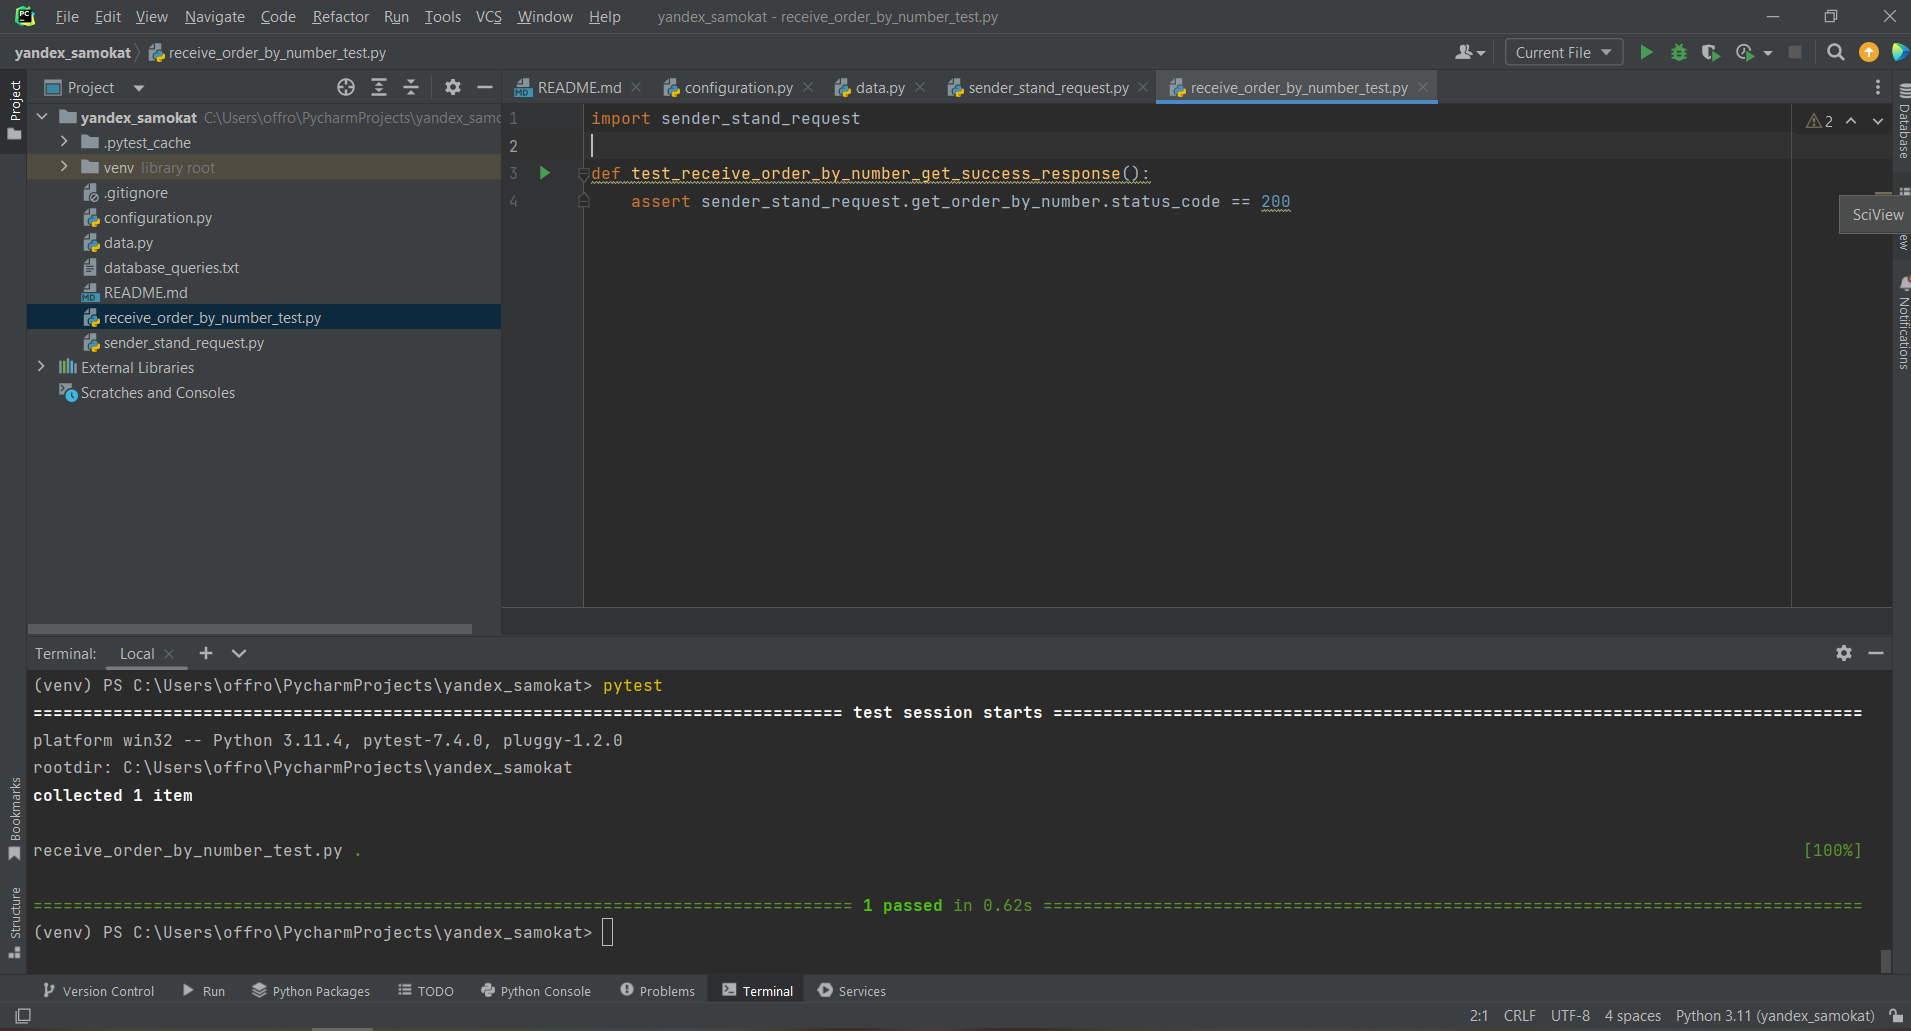
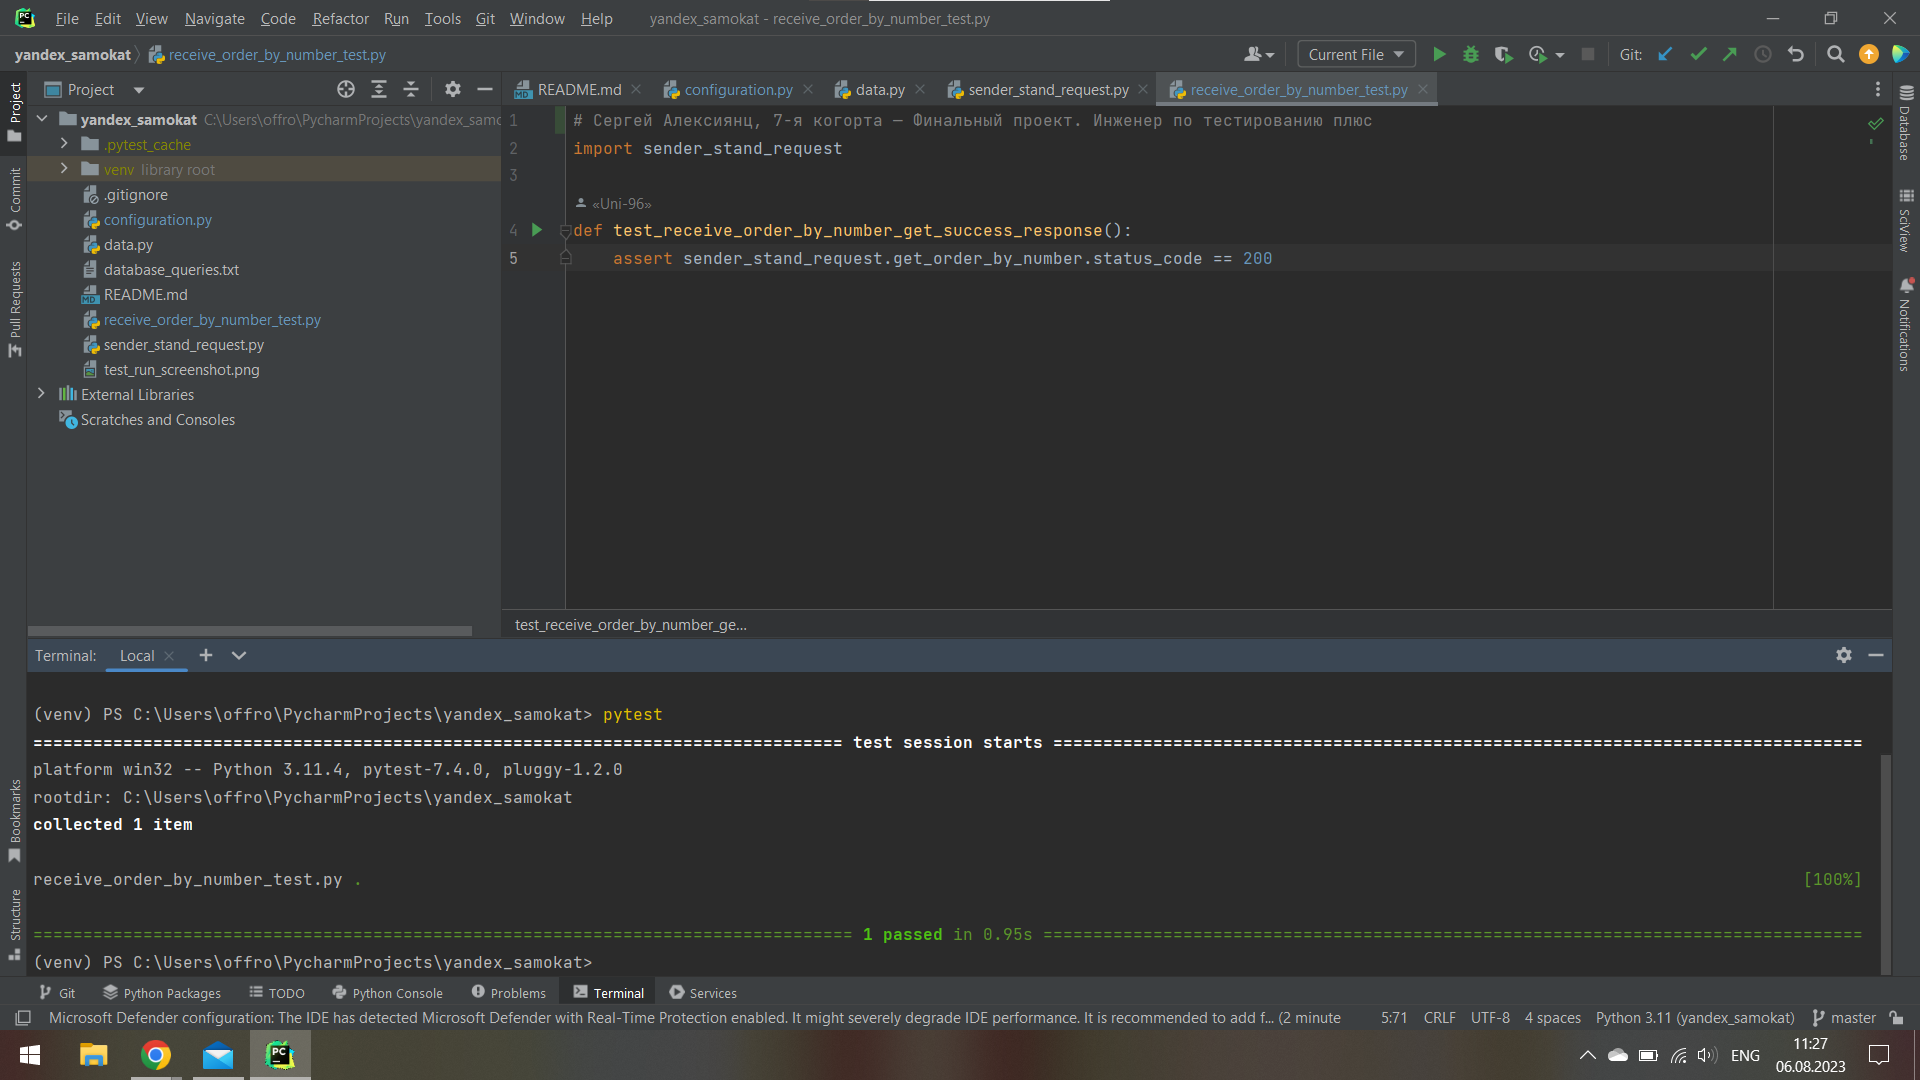
Добавлен комментарий для скриншота

diff --git a/configuration.py b/configuration.py
@@ -1,3 +1,3 @@
-URL_SERVICE = "https://7cd333ce-8e3e-4a17-a15f-3639a3283f47.serverhub.praktikum-services.ru"
+URL_SERVICE = "https://a53480e0-fa3d-4fe2-8e68-9e92ea1993dd.serverhub.praktikum-services.ru"
 CREATE_ORDER_PATH = "/api/v1/orders"
 RECEIVE_ORDER_BY_NUMBER_PATH = "/api/v1/orders/track?t="

diff --git a/receive_order_by_number_test.py b/receive_order_by_number_test.py
@@ -1,3 +1,4 @@
+# Сергей Алексиянц, 7-я когорта — Финальный проект. Инженер по тестированию плюс
 import sender_stand_request
 
 def test_receive_order_by_number_get_success_response():
